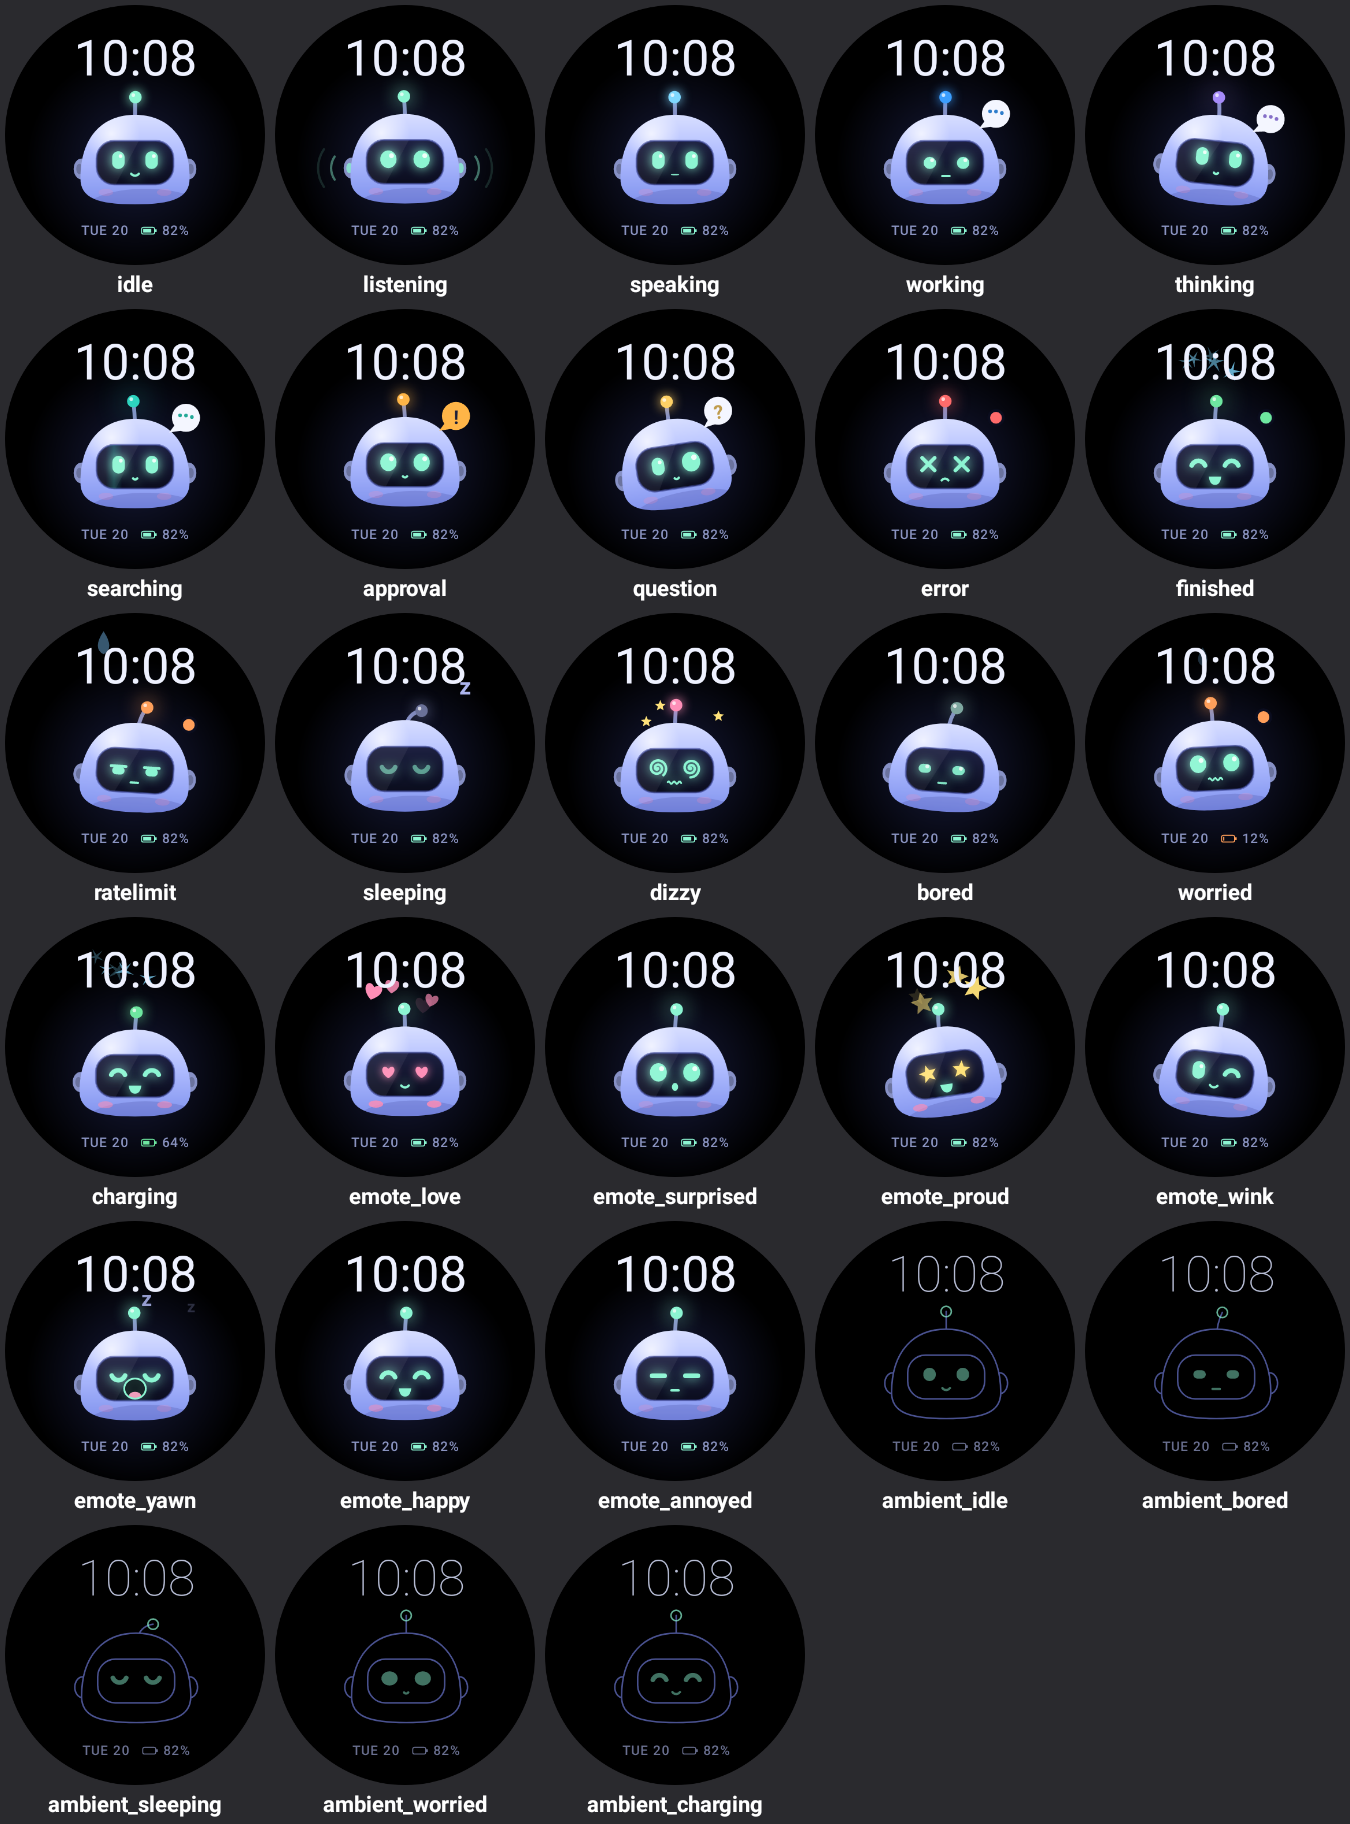
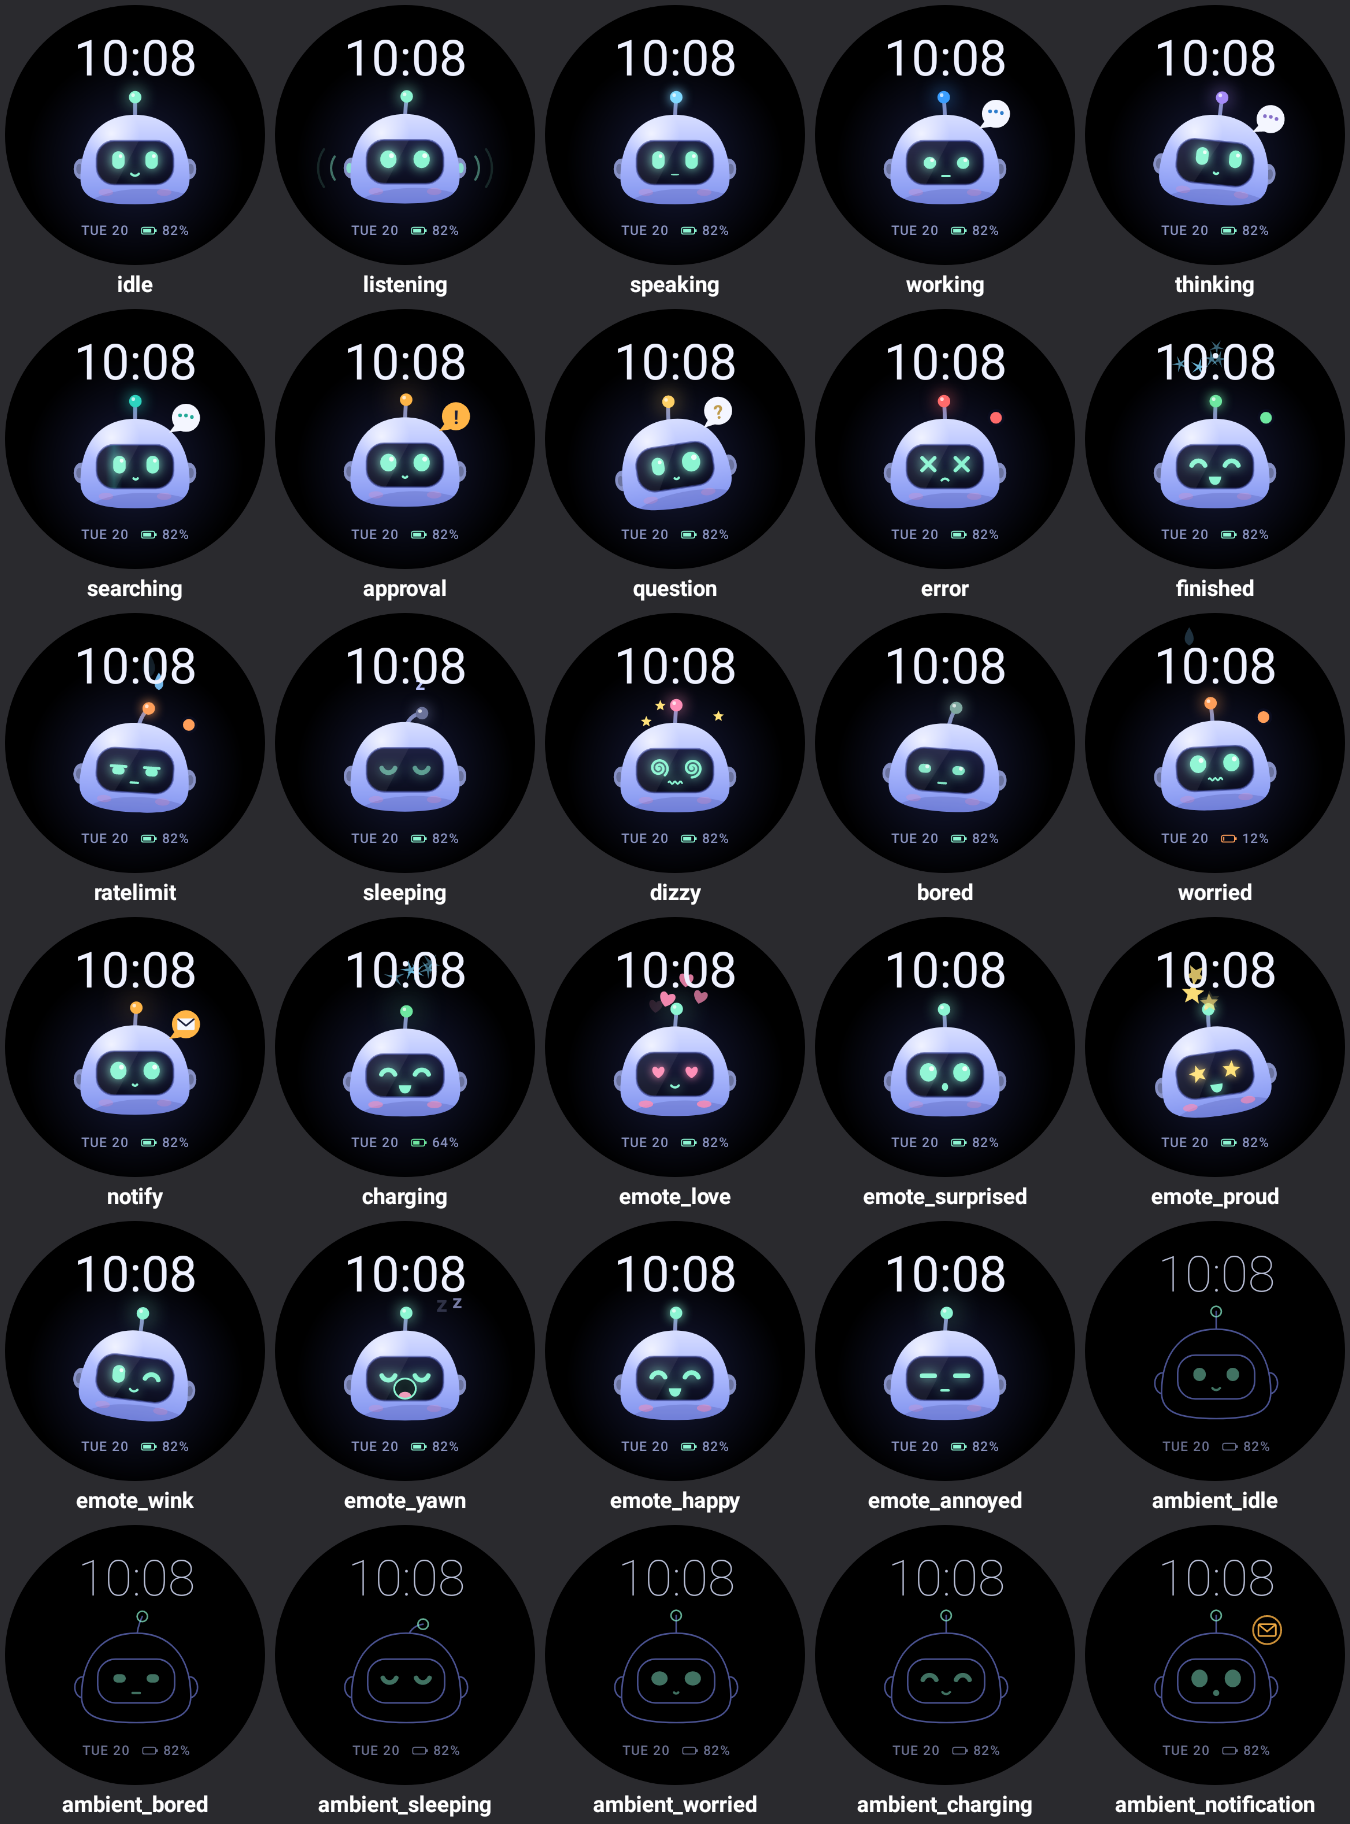
Notifications: letter badge, ambient alert, brief screen wake
New NOTIFY state (approval look with an envelope badge). In ambient the face
redraws with Jarvis alert; the listener wakes the screen for 3.5 s (at most
every 30 s) so the reaction plays; replay holds 12 s past Wear's card.

diff --git a/avatar/src/main/java/com/jarvis/avatar/JarvisRenderer.kt b/avatar/src/main/java/com/jarvis/avatar/JarvisRenderer.kt
@@ -396,7 +396,8 @@ class JarvisRenderer {
             return
         }
 
-        fill.color = if (p.badge == BadgeKind.BANG) p.badgeColor else Palette.BADGE_LIGHT
+        val solid = p.badge == BadgeKind.BANG || p.badge == BadgeKind.MAIL
+        fill.color = if (solid) p.badgeColor else Palette.BADGE_LIGHT
         c.drawCircle(0f, 0f, br, fill)
         path.reset()
         path.moveTo(-br * 0.75f, br * 0.45f)
@@ -405,7 +406,9 @@ class JarvisRenderer {
         path.close()
         c.drawPath(path, fill)
 
-        if (p.badge == BadgeKind.DOTS) {
+        if (p.badge == BadgeKind.MAIL) {
+            envelope(c, br, Palette.BADGE_LIGHT, Palette.BADGE_INK, fillIt = true)
+        } else if (p.badge == BadgeKind.DOTS) {
             fill.color = shade(p.badgeColor, 0.8f)
             for (i in 0 until 3) {
                 c.drawCircle((i - 1) * br * 0.42f, sin(t * 7f - i * 0.8f) * br * 0.18f, br * 0.13f, fill)
@@ -417,6 +420,27 @@ class JarvisRenderer {
             c.drawText(if (p.badge == BadgeKind.BANG) "!" else "?", 0f, baseline, text)
         }
         c.restore()
+    }
+
+    /** A letter: envelope body and flap, centred on the origin, sized to a badge of radius br. */
+    private fun envelope(c: Canvas, br: Float, body: Int, ink: Int, fillIt: Boolean) {
+        val ew = br * 0.62f
+        val eh = br * 0.42f
+        rect.set(-ew, -eh, ew, eh)
+        stroke.strokeWidth = br * 0.12f
+        if (fillIt) {
+            fill.color = body
+            c.drawRoundRect(rect, br * 0.1f, br * 0.1f, fill)
+            stroke.color = ink
+        } else {
+            stroke.color = body
+            c.drawRoundRect(rect, br * 0.1f, br * 0.1f, stroke)
+        }
+        path.reset()
+        path.moveTo(-ew + br * 0.06f, -eh + br * 0.06f)
+        path.lineTo(0f, eh * 0.25f)
+        path.lineTo(ew - br * 0.06f, -eh + br * 0.06f)
+        c.drawPath(path, stroke)
     }
 
     // ── Ambient: outline only, dim, nothing large lit (burn-in safe) ────────
@@ -466,6 +490,24 @@ class JarvisRenderer {
         }
         fill.color = face
         drawMouth(c, p, t, r, ox * 0.6f, r * (MOUTH_Y + 0.04f) + oy * 0.5f, face)
+        if (p.badge != BadgeKind.NONE && p.badgeScale > 0.01f) {
+            // Outline badge: small, dim, burn-in safe.
+            val br = r * 0.27f
+            stroke.color = withAlpha(p.badgeColor, 0.8f)
+            stroke.strokeWidth = r * 0.035f
+            c.drawCircle(r * 0.98f, -r * 0.98f, br, stroke)
+            if (p.badge == BadgeKind.MAIL) {
+                c.save()
+                c.translate(r * 0.98f, -r * 0.98f)
+                envelope(c, br, withAlpha(p.badgeColor, 0.9f), 0, fillIt = false)
+                c.restore()
+            } else if (p.badge == BadgeKind.BANG || p.badge == BadgeKind.QUESTION) {
+                text.color = withAlpha(p.badgeColor, 0.9f)
+                text.textSize = br * 1.35f
+                c.drawText(if (p.badge == BadgeKind.BANG) "!" else "?", r * 0.98f,
+                    -r * 0.98f + br * 0.1f - (text.ascent() + text.descent()) / 2f, text)
+            }
+        }
         c.restore()
     }
 

diff --git a/watchface/src/main/java/com/jarvis/watchface/MoodDirector.kt b/watchface/src/main/java/com/jarvis/watchface/MoodDirector.kt
@@ -69,7 +69,10 @@ class MoodDirector(private val engine: JarvisEngine) {
         val pending = pendingNotify
         if (pending != null && now - pendingNotifyAt < PENDING_NOTIFY_MS) {
             pendingNotify = null
-            notify(pending, now)
+            // Wear OS shows its notification card on this same wrist raise, so hold
+            // the alert long enough to still be playing when the card is swiped away.
+            engine.triggerEmote(Emote.SURPRISED, 1.2f)
+            remindUntil = now + REPLAY_MS
             touch(now)
             return
         }
@@ -83,7 +86,12 @@ class MoodDirector(private val engine: JarvisEngine) {
         greet(now, hour, dayOfYear)
     }
 
+    /** A notification arrived while in ambient and hasn't been shown yet. */
+    fun hasPendingAlert(now: Long): Boolean =
+        pendingNotify != null && now - pendingNotifyAt < PENDING_NOTIFY_MS
+
     fun onNotification(kind: String, now: Long, interactive: Boolean) {
+        Log.i(TAG, "notification '$kind' while ${if (interactive) "interactive" else "ambient"}")
         if (interactive) {
             notify(kind, now)
             touch(now)
@@ -144,7 +152,7 @@ class MoodDirector(private val engine: JarvisEngine) {
     private fun choose(now: Long, hour: Float): BotState {
         hold?.let { return it }
         if (now < listenUntil) return BotState.LISTENING
-        if (now < remindUntil) return BotState.APPROVAL
+        if (now < remindUntil) return BotState.NOTIFY
         if (charging) return BotState.CHARGING
         if (batteryLevel <= LOW_BATTERY) return BotState.WORRIED
         if (now - lastInteraction > boredAfterMs) {
@@ -157,8 +165,7 @@ class MoodDirector(private val engine: JarvisEngine) {
         engine.triggerEmote(Emote.SURPRISED, 1.2f)
         remindUntil = now + when (kind) {
             "remind" -> REMIND_MS
-            "message" -> MESSAGE_MS
-            else -> 0L
+            else -> MESSAGE_MS
         }
     }
 
@@ -186,6 +193,7 @@ class MoodDirector(private val engine: JarvisEngine) {
         const val LISTEN_MS = 4_000L
         const val REMIND_MS = 6_000L
         const val MESSAGE_MS = 3_000L
+        const val REPLAY_MS = 12_000L
         const val NOTICE_DELAY_MS = 1_400L
         const val PENDING_NOTIFY_MS = 10 * 60_000L
         const val YAWN_GAP_MS = 20 * 60_000L

diff --git a/watchface/src/main/java/com/jarvis/watchface/JarvisNotificationListener.kt b/watchface/src/main/java/com/jarvis/watchface/JarvisNotificationListener.kt
@@ -1,14 +1,21 @@
 package com.jarvis.watchface
 
 import android.app.Notification
+import android.content.Context
+import android.os.PowerManager
+import android.os.SystemClock
 import android.service.notification.NotificationListenerService
 import android.service.notification.StatusBarNotification
+import android.util.Log
 
 /**
- * Optional. Makes Jarvis perk up when a notification arrives. Inert until
+ * Optional. Makes Jarvis react when a notification arrives. Inert until
  * notification access is granted (adb command in the README). The system
  * calls us only when a notification is posted, so there is no polling.
  * Only the category is read, never the content.
+ *
+ * If the screen is in ambient, it is woken for a few seconds so the reaction
+ * is actually seen (at most once per WAKE_GAP_MS).
  */
 class JarvisNotificationListener : NotificationListenerService() {
 
@@ -23,6 +30,34 @@ class JarvisNotificationListener : NotificationListenerService() {
             Notification.CATEGORY_SOCIAL, "missed_call" -> "message"
             else -> "other"
         }
+        Log.i(TAG, "posted ${sbn.packageName} category=${n.category} → $kind")
         AvatarBus.post("notify:$kind")
+        wakeScreen()
+    }
+
+    /** Turns the screen on briefly; the watch face replays the reaction on wake. */
+    @Suppress("DEPRECATION") // ACQUIRE_CAUSES_WAKEUP is the only way to light the screen from a service
+    private fun wakeScreen() {
+        val pm = getSystemService(Context.POWER_SERVICE) as PowerManager
+        if (pm.isInteractive) return
+        val now = SystemClock.uptimeMillis()
+        if (now - lastWake < WAKE_GAP_MS) return
+        lastWake = now
+        try {
+            pm.newWakeLock(
+                PowerManager.SCREEN_BRIGHT_WAKE_LOCK or PowerManager.ACQUIRE_CAUSES_WAKEUP or PowerManager.ON_AFTER_RELEASE,
+                "jarvis:notify",
+            ).acquire(WAKE_MS)
+            Log.i(TAG, "woke screen for ${WAKE_MS}ms")
+        } catch (e: Exception) {
+            Log.w(TAG, "screen wake failed: $e")
+        }
+    }
+
+    private companion object {
+        const val TAG = "JarvisNotify"
+        const val WAKE_MS = 3_500L
+        const val WAKE_GAP_MS = 30_000L
+        var lastWake = -WAKE_GAP_MS
     }
 }

diff --git a/watchface/src/test/java/com/jarvis/watchface/ScreenshotTest.kt b/watchface/src/test/java/com/jarvis/watchface/ScreenshotTest.kt
@@ -56,13 +56,14 @@ class ScreenshotTest {
                 e.setState(s, force = true); 0.5f
             })
         }
+        shots += Shot("ambient_notification", frame(ambient = true, alert = true) { e -> e.update(0.5f); 0.5f })
         shots.forEach { save(it.name, it.bitmap) }
         save("_contact_sheet", sheet(shots))
     }
 
     /** Runs the engine at 60 fps for the time the setup returns, then draws one frame. */
     private fun frame(
-        battery: Int = 82, charging: Boolean = false, ambient: Boolean = false,
+        battery: Int = 82, charging: Boolean = false, ambient: Boolean = false, alert: Boolean = false,
         setup: (JarvisEngine) -> Float,
     ): Bitmap {
         val engine = JarvisEngine()
@@ -75,7 +76,7 @@ class ScreenshotTest {
         val c = Canvas(bmp)
         val painter = FacePainter(RuntimeEnvironment.getApplication())
         val w = size.toFloat()
-        if (ambient) painter.drawAmbient(c, w, w, time, engine, battery, charging, false)
+        if (ambient) painter.drawAmbient(c, w, w, time, engine, battery, charging, false, alert)
         else painter.drawInteractive(c, w, w, time, engine, t, battery, charging)
         roundMask(c)
         return bmp

diff --git a/watchface/src/main/java/com/jarvis/watchface/FacePainter.kt b/watchface/src/main/java/com/jarvis/watchface/FacePainter.kt
@@ -85,6 +85,7 @@ class FacePainter(private val context: Context) {
     fun drawAmbient(
         c: Canvas, w: Float, h: Float, z: ZonedDateTime,
         engine: JarvisEngine, battery: Int, charging: Boolean, lowBit: Boolean,
+        alert: Boolean = false,
     ) {
         prepare(w, z, battery)
         setAntiAlias(!lowBit)
@@ -96,7 +97,14 @@ class FacePainter(private val context: Context) {
         drawTime(c, w, h, true)
         c.save()
         c.translate(w / 2f, h * AVATAR_Y)
-        avatar.draw(c, ambientPose(engine, w * AVATAR_R), 0f, RenderStyle.AMBIENT)
+        val p = ambientPose(engine, w * AVATAR_R)
+        if (alert) {
+            // A notification is waiting: eyes wide, a letter in the bubble, until the next wrist raise.
+            p.eyes = Eye.WIDE; p.mouth = Mouth.O; p.mouthOpen = 0.5f; p.open = 1f
+            p.badge = BadgeKind.MAIL; p.badgeColor = 0xFFFFB547.toInt(); p.badgeScale = 1f
+            p.antenna = 0f
+        }
+        avatar.draw(c, p, 0f, RenderStyle.AMBIENT)
         c.restore()
         drawInfo(c, w, h, true, battery, charging)
         c.restore()

diff --git a/avatar/src/main/java/com/jarvis/avatar/JarvisEngine.kt b/avatar/src/main/java/com/jarvis/avatar/JarvisEngine.kt
@@ -116,7 +116,7 @@ class JarvisEngine {
                 later(0.5f) { emit(ParticleType.SPARK, 5) }
             }
             BotState.ERROR -> anim(Prop.OX, K(0.08f, 50, Ease.OUT), K(-0.08f, 70), K(0.05f, 70), K(0f, 90, Ease.OUT))
-            BotState.APPROVAL -> anim(Prop.OY, K(-0.2f, 150, Ease.OUT), K(0f, 300, Ease.BACK))
+            BotState.APPROVAL, BotState.NOTIFY -> anim(Prop.OY, K(-0.2f, 150, Ease.OUT), K(0f, 300, Ease.BACK))
             BotState.DIZZY -> doRoll(1.3f, 2)
             BotState.QUESTION -> blink()
             BotState.RATELIMIT -> emit(ParticleType.SWEAT, 1)
@@ -341,7 +341,7 @@ class JarvisEngine {
         val st = state
         var pulse = 0.5f + 0.5f * sin(lt * 2f)
         when (st) {
-            BotState.APPROVAL -> pulse = if (sin(lt * 6f) > 0) 1f else 0.2f
+            BotState.APPROVAL, BotState.NOTIFY -> pulse = if (sin(lt * 6f) > 0) 1f else 0.2f
             BotState.ERROR -> pulse = if (sin(lt * 10f) > 0) 1f else 0.3f
             BotState.LISTENING -> pulse = 0.5f + 0.5f * sin(lt * 8f)
             BotState.SPEAKING -> pulse = mouthOpen

diff --git a/avatar/src/main/java/com/jarvis/avatar/BotState.kt b/avatar/src/main/java/com/jarvis/avatar/BotState.kt
@@ -64,6 +64,9 @@ enum class BotState(
         tilt = -0.05f, floatSpeed = 3.4f, floatAmp = 0.018f,
     ),
 
+    /** A notification arrived: the approval look with a letter in the bubble. */
+    NOTIFY(0xFFFFB547.toInt(), Eye.WIDE, Mouth.SMALL, BadgeKind.MAIL, bounces = true),
+
     /** On the charger: happy eyes, grin, green light, breathing, blushing. */
     CHARGING(0xFF6EE7A0.toInt(), Eye.HAPPY, Mouth.GRIN, breathes = true, blush = 0.55f, floatSpeed = 1.4f),
 }

diff --git a/watchface/src/test/java/com/jarvis/watchface/MoodDirectorTest.kt b/watchface/src/test/java/com/jarvis/watchface/MoodDirectorTest.kt
@@ -55,8 +55,8 @@ class MoodDirectorTest {
         assertEquals(BotState.IDLE, engine.state)
         d.onWake(20_000L, noon, 1)
         d.update(20_100L, noon)
-        assertEquals(BotState.APPROVAL, engine.state)
-        d.update(20_000L + MoodDirector.REMIND_MS + 1, noon)
+        assertEquals(BotState.NOTIFY, engine.state)
+        d.update(20_000L + MoodDirector.REPLAY_MS + 1, noon)
         assertEquals(BotState.IDLE, engine.state)
     }
 

diff --git a/watchface/src/main/java/com/jarvis/watchface/JarvisCanvasRenderer.kt b/watchface/src/main/java/com/jarvis/watchface/JarvisCanvasRenderer.kt
@@ -130,7 +130,7 @@ class JarvisCanvasRenderer(
         if (ambient) {
             painter.drawAmbient(
                 canvas, w, h, zonedDateTime, engine, director.batteryLevel, director.charging,
-                watchState.hasLowBitAmbient,
+                watchState.hasLowBitAmbient, director.hasPendingAlert(nowMs),
             )
         } else {
             val t = (nowMs - clockBase) / 1000f

diff --git a/avatar/src/main/java/com/jarvis/avatar/JarvisPose.kt b/avatar/src/main/java/com/jarvis/avatar/JarvisPose.kt
@@ -10,7 +10,7 @@ enum class Eye {
 
 enum class Mouth { NONE, SMILE, SMALL, GRIN, FLAT, FROWN, WAVY, TALK, O, CHEW, GULP }
 
-enum class BadgeKind { NONE, DOTS, BANG, QUESTION, DOT }
+enum class BadgeKind { NONE, DOTS, BANG, QUESTION, DOT, MAIL }
 
 /** How much of the character to draw. */
 enum class RenderStyle {
